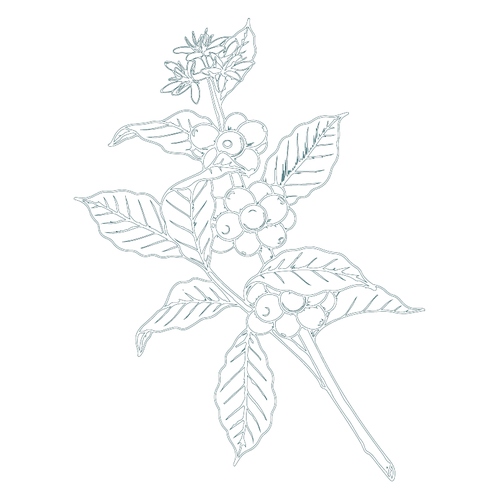
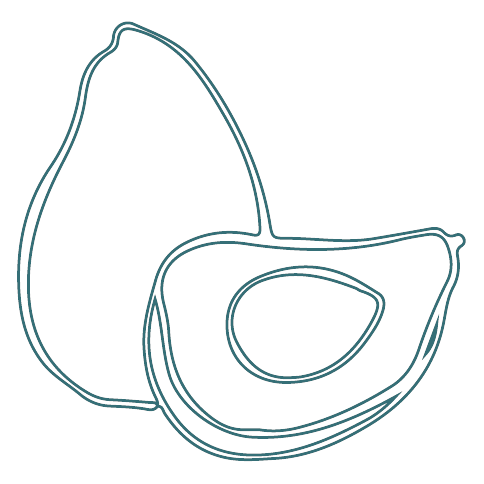
Ave y mata de maíz correctas, verificadas contra los recortes del equipo
- Ave confirmada por coincidencia geométrica (aspecto 1.05/densidad 0.08)
  con la referencia del equipo: es el elemento 7 de la primera lámina azul
  (el compacto del centro-abajo) — ya colocado con los demás animales
- Mata de maíz: se adopta el recorte del equipo ('mata de maiz verde',
  la mata completa 412×868) en vez de la costura defectuosa; reemplaza al
  maíz del footer (más alta y protagonista) y del CTA
- Al banco: mata-maiz-lima.png y mata-maiz-azul.png

Changed region(s): [[0.031, 0.031, 0.9607, 0.9607], [0.7128, 0.7128, 0.7438, 0.7438]]

diff --git a/components/site/cta-band.tsx b/components/site/cta-band.tsx
@@ -19,7 +19,7 @@ export function CtaBand() {
       {/* Gráfica complementaria oficial: la mata de maíz y la zarigüeya —el
           territorio y su fauna— acompañan el llamado a la acción. */}
       <div aria-hidden="true" className="pointer-events-none absolute inset-y-0 left-4 hidden w-32 opacity-60 lg:block">
-        <Image src="/identidad/motivos/maiz2-lima.png" alt="" fill sizes="128px" className="object-contain object-left p-1" />
+        <Image src="/identidad/motivos/mata-maiz-lima.png" alt="" fill sizes="128px" className="object-contain object-left p-1" />
       </div>
       <div aria-hidden="true" className="pointer-events-none absolute inset-y-0 right-4 hidden w-32 opacity-60 lg:block">
         <Image src="/identidad/motivos/zarigueya-lima.png" alt="" fill sizes="128px" className="object-contain object-right p-1" />

diff --git a/components/site/site-footer.tsx b/components/site/site-footer.tsx
@@ -73,12 +73,12 @@ export function SiteFooter() {
           protagonista del final (gráfica complementaria oficial, lima sobre
           verde bosque). */}
       <Image
-        src="/identidad/motivos/maiz-lima.png"
+        src="/identidad/motivos/mata-maiz-lima.png"
         alt=""
         width={128}
         height={128}
         aria-hidden="true"
-        className="pointer-events-none absolute bottom-7 left-7 hidden h-24 w-24 object-contain opacity-70 md:block lg:h-28 lg:w-28"
+        className="pointer-events-none absolute bottom-7 left-7 hidden h-28 w-24 object-contain opacity-70 md:block lg:h-36 lg:w-28"
       />
       <Image
         src="/identidad/motivos/venado-lima.png"
